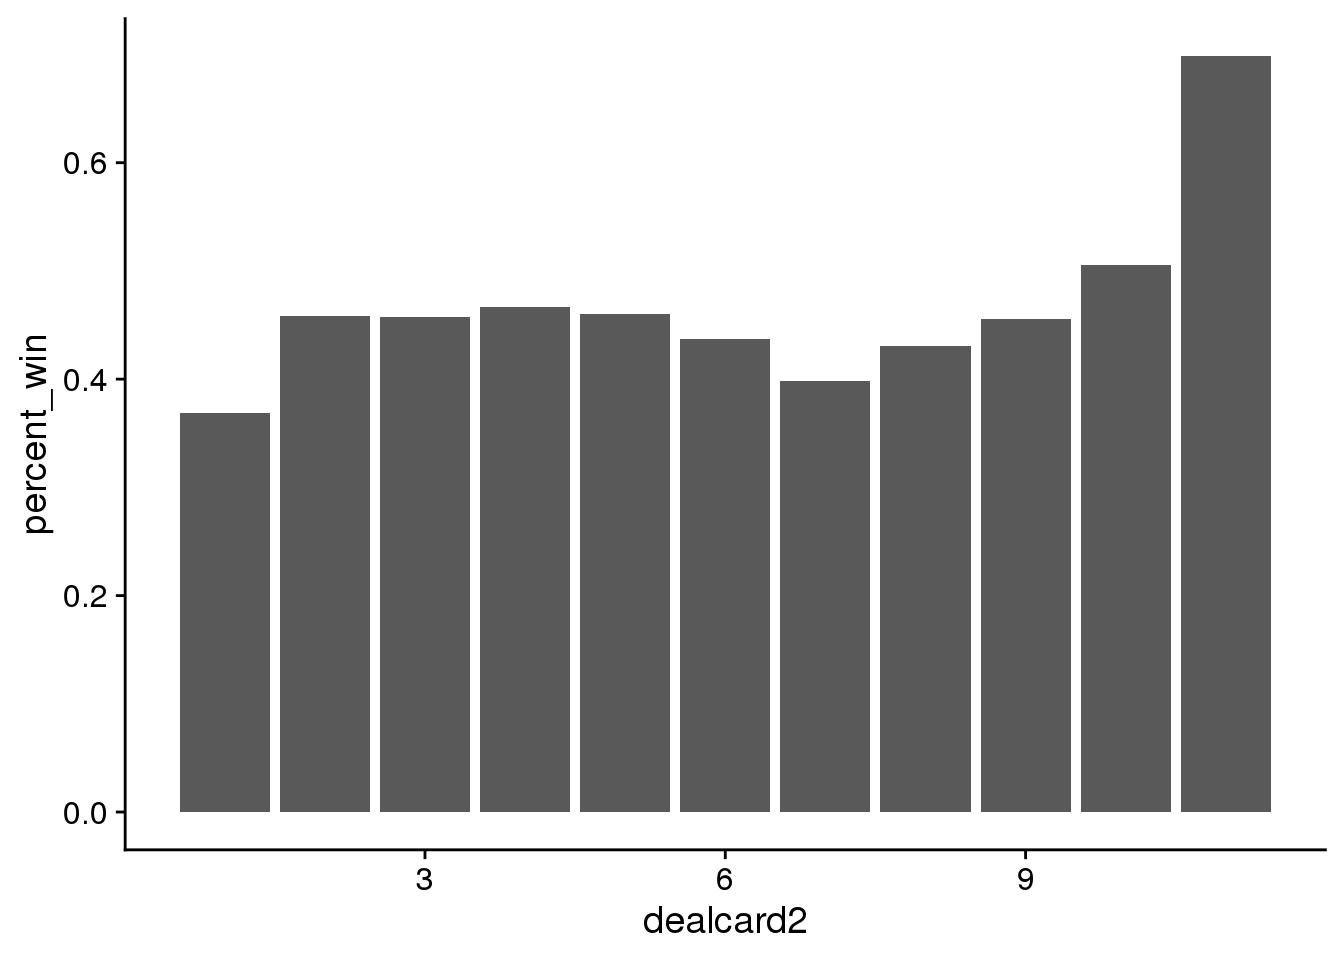
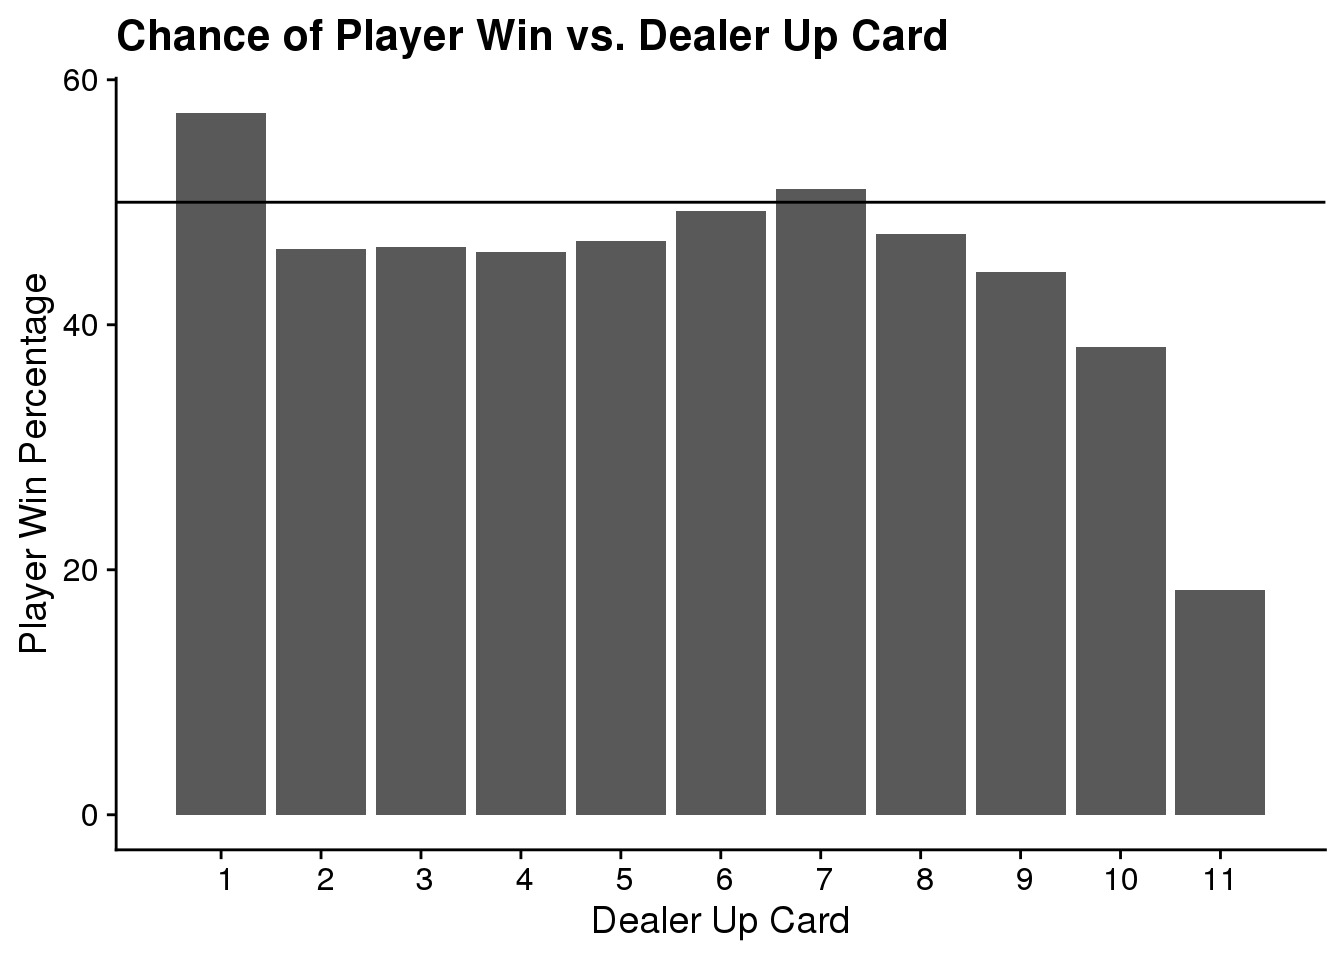
Rough Draft v2

diff --git a/jdk/public/2020/12/08/nba-evolution/index.html b/jdk/public/2020/12/08/nba-evolution/index.html
@@ -6,8 +6,8 @@
 <meta name="generator" content="Hugo 0.79.0" />
 
 
-<title>NBA Evolution - Jack D Kincannon</title>
-<meta property="og:title" content="NBA Evolution - Jack D Kincannon">
+<title>The NBA Evolution Visualized - Jack D Kincannon</title>
+<meta property="og:title" content="The NBA Evolution Visualized - Jack D Kincannon">
 
 
   <link href='/favicon.ico' rel='icon' type='image/x-icon'/>
@@ -64,10 +64,10 @@
 
   <article class="article">
     
-    <span class="article-duration">14 min read</span>
+    <span class="article-duration">15 min read</span>
     
 
-    <h1 class="article-title">NBA Evolution</h1>
+    <h1 class="article-title">The NBA Evolution Visualized</h1>
 
     
     <span class="article-date">2020-12-08</span>
@@ -82,8 +82,8 @@
 <div id="introduction" class="section level1">
 <h1>Introduction</h1>
 <p>Nearly all sports have one thing in common; a final score. It’s the most important number, and some say it’s the only one that matters. In spite of that view, many sports have been flipped on their head by a proper understanding of key numbers. My mind automatically drifts to the story told in Micheal Lewis’ <em>“Moneyball”</em>. In which, the MLB was revolutionized by the analytical ideas of a few baseball black sheep. Like many other leagues, the NBA was not immune to this revolution. Economics and statistics have transformed the league. With a focus on reaching maximum point scoring efficiency. The comprehensive story is beautifully told in Kirk Goldsberry’s book <em>“Sprawlball”</em>. The novel shows how quantitative analysis pushed all NBA teams to dramatically change their strategy. My analysis will ultimately determine if better “Sprawlball” execution results in more games won. This will be achieved through exploration of key questions.</p>
-<div id="key-questions" class="section level3">
-<h3>Key Questions</h3>
+<div id="key-questions" class="section level2">
+<h2>Key Questions</h2>
 <ol style="list-style-type: decimal">
 <li>What is “Sprawlball”?</li>
 <li>What led NBA teams to adopt this new strategy?</li>
@@ -255,7 +255,6 @@ plot2 &lt;- ggplot(shots19_pct,
 plot1 / plot2</code></pre>
 <p><img src="index_files/figure-html/unnamed-chunk-5-1.png" width="672" /></p>
 <p>These plots are meant to look at the problem from a very basic level. However, already we see relationships forming in the data. Those with a keen eye will notice that there is not a significant decrease in shot percentage from once you cross the 3pt line at roughly 22ft. Players are generally consistent when shooting from about 3-25 ft. This fact will give rise to extremely important information in the data analysis section.</p>
-<p>Speaking of, shot distance was an interesting challenge that I faced.</p>
 <pre class="r"><code># percentage of shots by area 
 N5 &lt;- length(shots10$SHOT_ATTEMPTED_FLAG)
 N6 &lt;- length(shots19$SHOT_ATTEMPTED_FLAG)
@@ -342,11 +341,14 @@ plot4 &lt;- ggplot(pie_dat19, aes(x=&quot;&quot;, y = percent, fill = shot_zone)
   scale_fill_brewer(palette=&quot;Pastel1&quot;)
 
 plot3 + plot4</code></pre>
-<p><img src="index_files/figure-html/unnamed-chunk-7-1.png" width="672" />
-Here you can see how frequently players shoot in certain zones relative to one another. The drastic change seen in this graph is yet another fundamental component of <em>“Sprawlball”</em>, that connects right back to the first set of plots. As mentioned, the shooting percentage does not decrease by a significant amount (hypoth test) per ft once you go outside of the restricted area. This explains the contraction in the “Mid-Range” and the near doubling of the “Above the Break 3”. Why do more for less? Is probably a question players have asked themselves. Stepping back to launch an open 3 has become the most profitable play in basketball. In the next section I’ll get specific on what exactly this strategy is and why it is so popular today.</p>
+<p><img src="index_files/figure-html/unnamed-chunk-7-1.png" width="672" /></p>
+<p>Here you can see how frequently players shoot in certain zones relative to one another. The drastic change seen in this graph is yet another fundamental component of <em>“Sprawlball”</em>, that connects right back to the first set of plots. As mentioned, the shooting percentage does not decrease by a significant amount (hypoth test) per ft once you go outside of the restricted area. This explains the contraction in the “Mid-Range” and the near doubling of the “Above the Break 3”. Why do more for less? Is probably a question players have asked themselves. Stepping back to launch an open 3 has become the most profitable play in basketball. In the next section I’ll get specific on what exactly this strategy is and why it is so popular today.</p>
 </div>
 <div id="data-analysis" class="section level1">
 <h1>Data Analysis</h1>
+<div id="question-1" class="section level2">
+<h2>Question 1</h2>
+<p>What is “Sprawlball”?</p>
 <pre class="r"><code>zones &lt;- c(&quot;Mid-Range&quot;, &quot;Right Corner 3&quot;, &quot;Left Corner 3&quot;, &quot;Above the Break 3&quot;, &quot;Backcourt&quot;)
 
 shots10_zone &lt;- shots10 %&gt;%
@@ -369,7 +371,11 @@ plot6 &lt;- ggplot(shots19_zone, aes(LOC_X, LOC_Y)) +
 
 plot6 </code></pre>
 <p><img src="index_files/figure-html/unnamed-chunk-9-1.png" width="672" />
-These two plots are easily my favorite. The way the transition is so clearly portrayed excites me.</p>
+That is “Sprawlball”. This shooting distribution is essential to the strategy. At a basic level it attempts to spread the floor in order to take as many high value shots as possible. Here we see a clearly defined transition over just 9 years, with shots becoming more concentrated around high value areas. Without so much as a picture to help plot the 3pt line, it’s there. In the 2019 data, the line appears in stark contrast with the rest of the floor. We are now realizing the full potential of what the line brings to the game. As players get better at shooting long shots the value of a 3pter continues to rise. This information is clearly displayed in the plots below, and will be further explored throughout the analysis.</p>
+</div>
+<div id="question-2" class="section level2">
+<h2>Question 2</h2>
+<p>What led NBA teams to adopt this new strategy?</p>
 <pre class="r"><code># shots10_pct 
 #NOTES
   #Add Legend 
@@ -405,8 +411,11 @@ plot8 &lt;- ggplot(shots19_pct, aes(x = SHOT_DISTANCE)) +
   ylim(0.0, 1.5)
 
 plot7 + plot8</code></pre>
-<p><img src="index_files/figure-html/unnamed-chunk-10-1.png" width="672" /></p>
-<pre class="r"><code># percentage of shots by area 
+<p><img src="index_files/figure-html/unnamed-chunk-10-1.png" width="672" />
+This graph makes the strategy extremely clear. 3 pointers and layups are the only things worth over 1 point per shot, by a lot.</p>
+<pre class="r"><code>#HIDE OUTPUT
+
+# percentage of shots by area 
 
 # counts total shots in each zone by year
 shot_counter1 &lt;- function(x, y) {
@@ -503,19 +512,14 @@ bar_dat19 &lt;- data.frame(
 # combined df
 ptsperdat &lt;- bar_dat10 %&gt;%
   left_join(bar_dat19, by = &quot;shot_zone&quot;)</code></pre>
+<p>The chunk above makes analysis of shot percentage by zone a reality. Therefore this data can also be used to visualize points per shot by zone. I hope to join this dataset with the main df to plot points per shot by zone, in the same style as the stock distributions.</p>
 <pre class="r"><code># create another plot with zone percentage by year
+# clean up graphs 
 
 plot9 &lt;- ggplot(ptsperdat, aes(x = shot_zone, y = ptspershot.x, fill = ptspershot.x)) +
   geom_bar(stat = &quot;identity&quot;) +
   labs(title = &quot;Points Per Shot By Zone&quot;,
        subtitle = &quot;2009-10 Regular Season&quot;) 
-  #scale_x_discrete(name = &quot;Shot Distance (ft)&quot;,
-                   ## limits = c(0, 22)) +
-  #scale_y_discrete(name = &quot;Shooting Percentage&quot;,
-                    # breaks = N2,
-                    # limits = c(0, 80)) +
-  #scale_fill_binned(low=&quot;skyblue1&quot;, high=&quot;firebrick&quot;) +
-  #theme(legen![](/2020-12-08-nba-evolution/index_files/nba-basketball-iso.png)d.title = element_blank())
 plot9</code></pre>
 <p><img src="index_files/figure-html/unnamed-chunk-12-1.png" width="672" /></p>
 <pre class="r"><code>plot27 &lt;- ggplot(ptsperdat,
@@ -534,7 +538,24 @@ plot27</code></pre>
                  #    limits = c(0, 80)) +
   #scale_fill_binned(low = &quot;skyblue1&quot;, high = &quot;firebrick&quot;) +
   #theme(legend.title = element_blank())</code></pre>
+</div>
+</div>
+<div id="question-3" class="section level1">
+<h1>Question 3</h1>
+<p>How can proper strategy execution be quantified?</p>
+<pre class="r"><code># create statistic that combines 
+  # points per shot, 2pt shooting percentage, 3pt attempted percentage, shots by zone, fouls?
+  # create formula that combines these values into one easily readable statistic that can be evaluated on a continuous scale</code></pre>
+</div>
+<div id="conclusion" class="section level1">
+<h1>Conclusion</h1>
+<p>I think I can say without a doubt that this change is for the better, as far as team preformance goes. The analysis already provided should be enough to prove this, however I want to extract specific statistical test values that prove the point.</p>
+<p>TBC</p>
+<div id="sources" class="section level2">
+<h2>Sources</h2>
+<p><a href="https://datavizardry.com/2020/01/28/nba-shot-charts-part-1/" class="uri">https://datavizardry.com/2020/01/28/nba-shot-charts-part-1/</a></p>
 <p><a href="https://stats.nba.com/stats/shotchartdetail" class="uri">https://stats.nba.com/stats/shotchartdetail</a></p>
+</div>
 </div>
 
     </div>

diff --git a/jdk/public/2020/12/08/blackjack-optimized/index.html b/jdk/public/2020/12/08/blackjack-optimized/index.html
@@ -64,7 +64,7 @@
 
   <article class="article">
     
-    <span class="article-duration">10 min read</span>
+    <span class="article-duration">12 min read</span>
     
 
     <h1 class="article-title">Blackjack Optimized</h1>
@@ -86,7 +86,7 @@
 <h2>Core Questions</h2>
 <ol style="list-style-type: decimal">
 <li>What is the expected value of a blackjack hand?</li>
-<li>When is probability in the players favor?</li>
+<li>When is probability in the player’s favor?</li>
 <li>How can a player maximize their expected value?</li>
 </ol>
 <pre class="r"><code>dat1 &lt;- read_csv(&quot;data/blkjckhands.csv&quot;) </code></pre>
@@ -265,29 +265,21 @@ house_edge_pct</code></pre>
 </div>
 <div id="question-2" class="section level2">
 <h2>Question 2</h2>
-<pre class="r"><code># first vis
-# x needs to be play2cardsum/sumofcards and y is percentage of win/loss
+<p>When is probability in the player’s favor?</p>
+<pre class="r"><code># add sumofcards vs pct win/loss
+
 x1 &lt;- c(20, 25)
+
 plhand_count &lt;- dat1 %&gt;%
   group_by(ply2cardsum) %&gt;%
   summarise(count = n(), .groups = &quot;keep&quot;)
-glimpse(plhand_count)</code></pre>
-<pre><code>## Observations: 21
-## Variables: 2
-## Groups: ply2cardsum [21]
-## $ ply2cardsum &lt;dbl&gt; 2, 3, 4, 5, 6, 7, 8, 9, 10, 11, 12, 13, 14, 15, 16, 17, 1…
-## $ count       &lt;int&gt; 1594, 4044, 10155, 16622, 22269, 28671, 26418, 31866, 372…</code></pre>
-<pre class="r"><code>plhand_win &lt;- dat1 %&gt;%
+  
+plhand_win &lt;- dat1 %&gt;%
   group_by(ply2cardsum) %&gt;%
   filter(plwinamt %in% x1) %&gt;%
   summarise(win_count = n(), .groups = &quot;keep&quot;)
-glimpse(plhand_win)</code></pre>
-<pre><code>## Observations: 20
-## Variables: 2
-## Groups: ply2cardsum [20]
-## $ ply2cardsum &lt;dbl&gt; 2, 3, 4, 5, 6, 7, 8, 9, 10, 11, 12, 13, 14, 15, 16, 17, 1…
-## $ win_count   &lt;int&gt; 523, 1239, 3330, 5318, 7108, 9401, 10241, 14042, 18582, 2…</code></pre>
-<pre class="r"><code>plwin_pct &lt;- plhand_count %&gt;%
+
+plwin_pct &lt;- plhand_count %&gt;%
   left_join(plhand_win) %&gt;%
   summarise(percent_win = win_count / count, .groups = &quot;keep&quot;)</code></pre>
 <pre><code>## Joining, by = &quot;ply2cardsum&quot;</code></pre>
@@ -296,12 +288,15 @@ glimpse(plhand_win)</code></pre>
   labs(title = &quot;Chance of Win vs. 2 Card Sum&quot;, 
        x = &quot;Player 2 Card Sum&quot;,
        y = &quot;Player Win Percentage&quot;) +
-  scale_x_discrete(limits = (2:21), breaks = 1:21)</code></pre>
+  scale_x_discrete(limits = (2:21), breaks = 1:21) +
+  geom_hline(yintercept = 50)</code></pre>
 <pre><code>## Warning: Continuous limits supplied to discrete scale.
 ## Did you mean `limits = factor(...)` or `scale_*_continuous()`?</code></pre>
 <pre class="r"><code>plot1</code></pre>
 <pre><code>## Warning: Removed 1 rows containing missing values (position_stack).</code></pre>
 <p><img src="index_files/figure-html/unnamed-chunk-16-1.png" width="672" /></p>
+<p>Here we see that out of 19 possible 2 card sums the player is only favored to win in about 5 of the scenarios. The 19, 20, and 21 are self explanatory, however, the 10 and 11 are interesting. Your probability is good comparatively with the 10 and 11 because of the card value frequency explored in the EDA. A 10 is by far the most likely card to draw, therefore your chances of a high value hand are pretty good.</p>
+<p>Now, the probability of winning based on the dealer’s up card.</p>
 <pre class="r"><code>dlhand_count &lt;- dat1 %&gt;%
   group_by(dealcard2) %&gt;%
   summarise(count = n(), .groups = &quot;keep&quot;)
@@ -311,6 +306,49 @@ glimpse(dlhand_count)</code></pre>
 ## Groups: dealcard2 [12]
 ## $ dealcard2 &lt;dbl&gt; 1, 2, 3, 4, 5, 6, 7, 8, 9, 10, 11, NA
 ## $ count     &lt;int&gt; 15474, 69984, 68370, 68730, 69120, 70188, 68694, 69258, 689…</code></pre>
+<pre class="r"><code>dlhand_win &lt;- dat1 %&gt;%
+  group_by(dealcard2) %&gt;%
+  filter(plwinamt %in% x1) %&gt;%
+  summarise(win_count = n(), .groups = &quot;keep&quot;)
+glimpse(dlhand_win)</code></pre>
+<pre><code>## Observations: 11
+## Variables: 2
+## Groups: dealcard2 [11]
+## $ dealcard2 &lt;dbl&gt; 1, 2, 3, 4, 5, 6, 7, 8, 9, 10, 11
+## $ win_count &lt;int&gt; 8861, 32306, 31662, 31556, 32349, 34617, 35063, 32840, 3055…</code></pre>
+<pre class="r"><code>dlcard_plwin_pct &lt;- dlhand_count %&gt;%
+  left_join(dlhand_win) %&gt;%
+  summarise(percent_win = win_count / count)</code></pre>
+<pre><code>## Joining, by = &quot;dealcard2&quot;</code></pre>
+<pre><code>## `summarise()` ungrouping output (override with `.groups` argument)</code></pre>
+<pre class="r"><code>dlcard_plwin_pct</code></pre>
+<pre><code>## # A tibble: 12 x 2
+##    dealcard2 percent_win
+##        &lt;dbl&gt;       &lt;dbl&gt;
+##  1         1       0.573
+##  2         2       0.462
+##  3         3       0.463
+##  4         4       0.459
+##  5         5       0.468
+##  6         6       0.493
+##  7         7       0.510
+##  8         8       0.474
+##  9         9       0.443
+## 10        10       0.382
+## 11        11       0.184
+## 12        NA      NA</code></pre>
+<pre class="r"><code>plot2 &lt;- ggplot(dlcard_plwin_pct, aes(dealcard2, percent_win * 100)) +
+  geom_bar(stat = &quot;identity&quot;) +
+  labs(title = &quot;Chance of Player Win vs. Dealer Up Card&quot;,
+       x = &quot;Dealer Up Card&quot;,
+       y = &quot;Player Win Percentage&quot;) +
+  scale_x_discrete(limits = 1:11, breaks = 1:11) +
+  geom_hline(yintercept = 50)</code></pre>
+<pre><code>## Warning: Continuous limits supplied to discrete scale.
+## Did you mean `limits = factor(...)` or `scale_*_continuous()`?</code></pre>
+<pre class="r"><code>plot2</code></pre>
+<pre><code>## Warning: Removed 1 rows containing missing values (position_stack).</code></pre>
+<p><img src="index_files/figure-html/unnamed-chunk-17-1.png" width="672" /></p>
 <pre class="r"><code>dlhand_win &lt;- dat1 %&gt;%
   group_by(dealcard2) %&gt;%
   filter(dlwinamt == 10) %&gt;%
@@ -326,24 +364,42 @@ glimpse(dlhand_win)</code></pre>
   summarise(percent_win = win_count / count)</code></pre>
 <pre><code>## Joining, by = &quot;dealcard2&quot;</code></pre>
 <pre><code>## `summarise()` ungrouping output (override with `.groups` argument)</code></pre>
-<pre class="r"><code>plot2 &lt;- ggplot(dlwin_pct, aes(dealcard2, percent_win)) +
-  geom_bar(stat = &quot;identity&quot;)
-plot2</code></pre>
+<pre class="r"><code>plot3 &lt;- ggplot(dlwin_pct, aes(dealcard2, percent_win *100)) +
+  geom_bar(stat = &quot;identity&quot;) +
+  labs(title = &quot;Chance of Dealer Win vs. Dealer Up Card&quot;,
+       x = &quot;Dealer Up Card&quot;,
+       y = &quot;Dealer Win Percentage&quot;) +
+  scale_x_discrete(limits = 1:11, breaks = 1:11) +
+  geom_hline(yintercept = 50)</code></pre>
+<pre><code>## Warning: Continuous limits supplied to discrete scale.
+## Did you mean `limits = factor(...)` or `scale_*_continuous()`?</code></pre>
+<pre class="r"><code>plot3</code></pre>
 <pre><code>## Warning: Removed 1 rows containing missing values (position_stack).</code></pre>
-<p><img src="index_files/figure-html/unnamed-chunk-17-1.png" width="672" /></p>
-<pre class="r"><code># second vis
-# x is dealcard1 and y is winloss/dlbustbeat
+<p><img src="index_files/figure-html/unnamed-chunk-18-1.png" width="672" /></p>
+<pre class="r"><code># plot4
+# x is dealcard2 and y is dlbustbeat (filter )
 
-ggplot(dat1, aes(dealcard1, ))</code></pre>
-<p><img src="index_files/figure-html/unnamed-chunk-17-2.png" width="672" /></p>
-<pre class="r"><code># third vis 
-# ply2cardsum y is percent plybustbeat</code></pre>
+# plot5
+# x is ply2cardsum y is percent plybustbeat (filter into different categories)</code></pre>
+</div>
+<div id="question-3" class="section level2">
+<h2>Question 3</h2>
+<p>How can a player maximize their expected value?</p>
 <pre class="r"><code>#Determine hit or stand based on ply2cardsum
 
 #determine hit or stand based on dealcard1
 
 # combine the two, show chart of all possibilities 
 # ply2card sum (or possible hands) == rows and dealcard1 == col</code></pre>
+</div>
+</div>
+<div id="conclusion" class="section level1">
+<h1>Conclusion</h1>
+<p>I could answer this now, due to unfortuante experience. However, I will let the data explain itself.</p>
+<p>TBC</p>
+<div id="sources" class="section level2">
+<h2>Sources</h2>
+<p><a href="https://www.kaggle.com/mojocolors/900000-hands-of-blackjack-results" class="uri">https://www.kaggle.com/mojocolors/900000-hands-of-blackjack-results</a></p>
 </div>
 </div>
 

diff --git a/jdk/public/about/index.html b/jdk/public/about/index.html
@@ -66,13 +66,15 @@
 
     <div class="article-content">
       <p>I study Data Science and Finance at the University of Arkansas. I am looking for opportunities to bolster my experience in the field as I progress through my education. I hope to find challenging work in a stimulating environment that aids in creating a better future. I have over 4 years of both investing and leadership experience. Strong social science background with an emerging technical skillset. Trained in qualitative and quantitative analysis. Proficient in Python, R, TeX, PowerShell, Bash, and the Microsoft Office Suite. Academic knowledge and experience in:</p>
-<p>● Data Analysis and Visualization
-●	Managing Environments
-●	Critical Thinking
-●	Advanced Problem Solving
-●	Leadership and Communication
-●	Teaching and Research
-●	Team Collaboration</p>
+<ul>
+<li>Data Analysis and Visualization</li>
+<li>Managing Environments</li>
+<li>Critical Thinking</li>
+<li>Advanced Problem Solving</li>
+<li>Leadership and Communication</li>
+<li>Teaching and Research</li>
+<li>Team Collaboration</li>
+</ul>
 
     </div>
   </article>

diff --git a/jdk/public/index.html b/jdk/public/index.html
@@ -70,14 +70,14 @@
     <h2 class="archive-title">2020</h2>
     
     <article class="archive-item">
-      <a href="/2020/12/08/technical-financial-analysis/" class="archive-item-link">Technical Financial Analysis</a>
+      <a href="/2020/12/08/nba-evolution/" class="archive-item-link">The NBA Evolution Visualized</a>
       <span class="archive-item-date">
         2020-12-08
       </span>
     </article>
     
     <article class="archive-item">
-      <a href="/2020/12/08/nba-evolution/" class="archive-item-link">NBA Evolution</a>
+      <a href="/2020/12/08/technical-financial-analysis/" class="archive-item-link">Technical Financial Analysis</a>
       <span class="archive-item-date">
         2020-12-08
       </span>

diff --git a/jdk/public/post/index.html b/jdk/public/post/index.html
@@ -67,14 +67,14 @@
     <h2 class="archive-title">2020</h2>
     
     <article class="archive-item">
-      <a href="/2020/12/08/technical-financial-analysis/" class="archive-item-link">Technical Financial Analysis</a>
+      <a href="/2020/12/08/nba-evolution/" class="archive-item-link">The NBA Evolution Visualized</a>
       <span class="archive-item-date">
         2020-12-08
       </span>
     </article>
     
     <article class="archive-item">
-      <a href="/2020/12/08/nba-evolution/" class="archive-item-link">NBA Evolution</a>
+      <a href="/2020/12/08/technical-financial-analysis/" class="archive-item-link">Technical Financial Analysis</a>
       <span class="archive-item-date">
         2020-12-08
       </span>

diff --git a/jdk/public/2020/12/08/technical-financial-analysis/index.html b/jdk/public/2020/12/08/technical-financial-analysis/index.html
@@ -77,7 +77,7 @@
 <li>What is the optimal strategy with the indicators selected?</li>
 <li>How much profit would I have made?</li>
 </ol>
-<p>Should time allow I plan on completing this analysis as part of my final project.</p>
+<p>Should time allow, I plan on completing this analysis as part of my final project.</p>
 
     </div>
   </article>

diff --git a/jdk/content/about.md b/jdk/content/about.md
@@ -3,13 +3,13 @@ date: "2016-05-05T21:48:51-07:00"
 title: About
 ---
 
-I study Data Science and Finance at the University of Arkansas. I am looking for opportunities to bolster my experience in the field as I progress through my education. I hope to find challenging work in a stimulating environment that aids in creating a better future. I have over 4 years of both investing and leadership experience. Strong social science background with an emerging technical skillset. Trained in qualitative and quantitative analysis. Proficient in Python, R, TeX, PowerShell, Bash, and the Microsoft Office Suite. Academic knowledge and experience in:
+I study Data Science and Finance at the University of Arkansas. I am looking for opportunities to bolster my experience in the field as I progress through my education. I hope to find challenging work in a stimulating environment that aids in creating a better future. I have over 4 years of both investing and leadership experience. Strong social science background with an emerging technical skillset. Trained in qualitative and quantitative analysis. Proficient in Python, R, TeX, PowerShell, Bash, Git, and the Microsoft Office Suite. Academic knowledge and experience in:
  
-● Data Analysis and Visualization
-●	Managing Environments
-●	Critical Thinking
-●	Advanced Problem Solving
-●	Leadership and Communication
-●	Teaching and Research
-●	Team Collaboration
+- Data Analysis and Visualization
+-	Managing Environments
+-	Critical Thinking
+-	Advanced Problem Solving
+-	Leadership and Communication
+- Teaching and Research
+-	Team Collaboration
 
